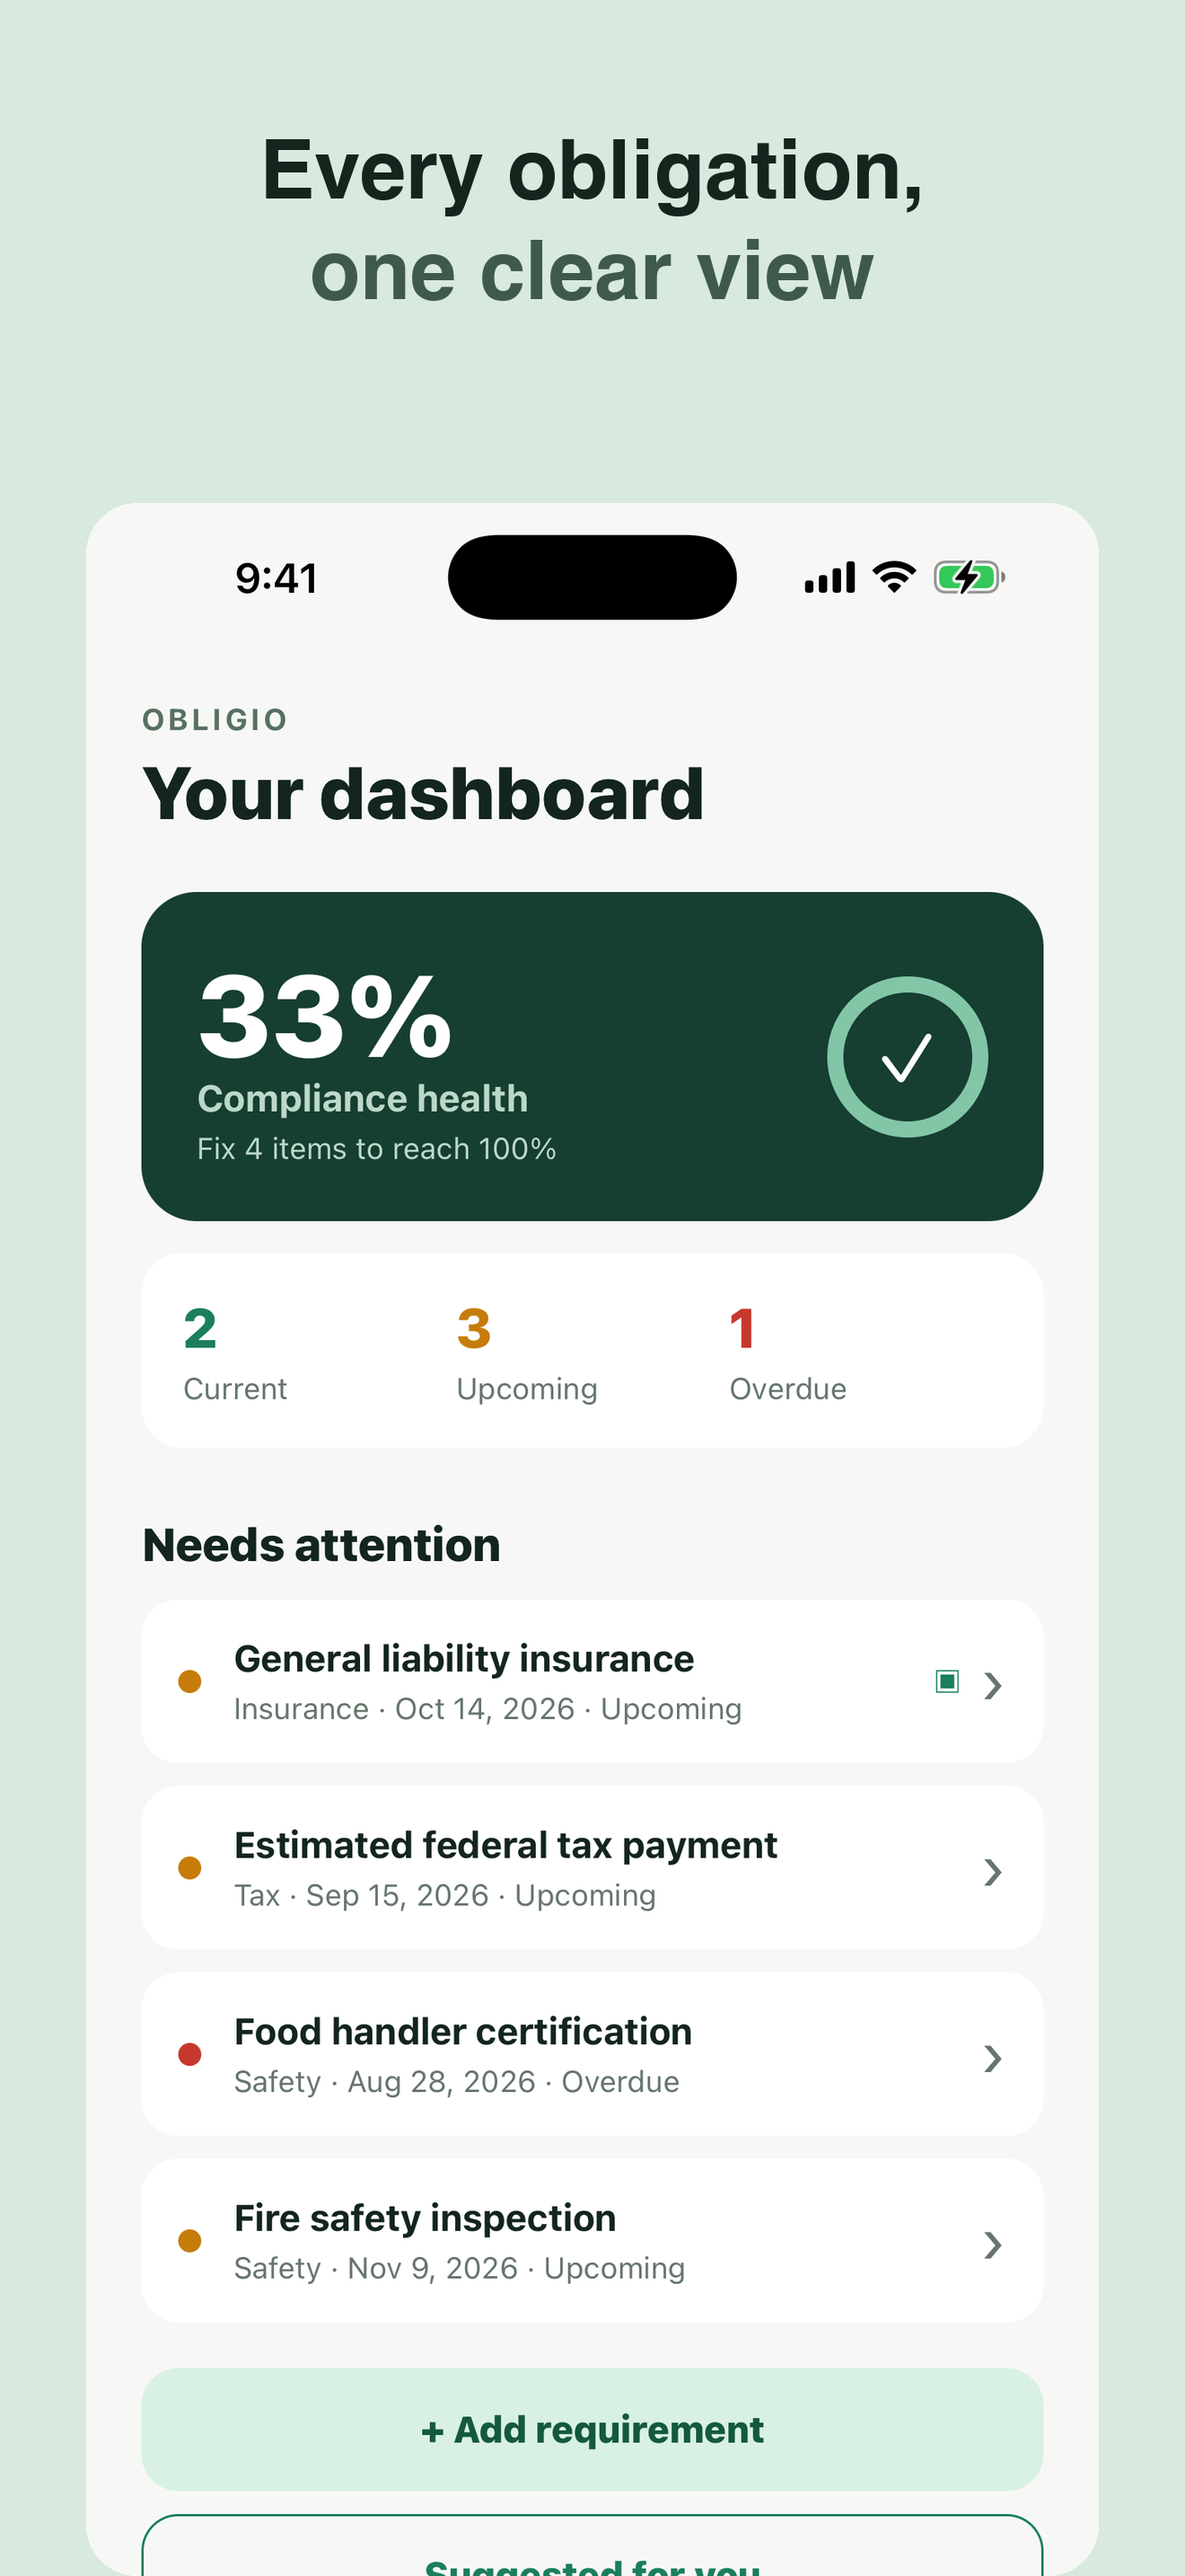
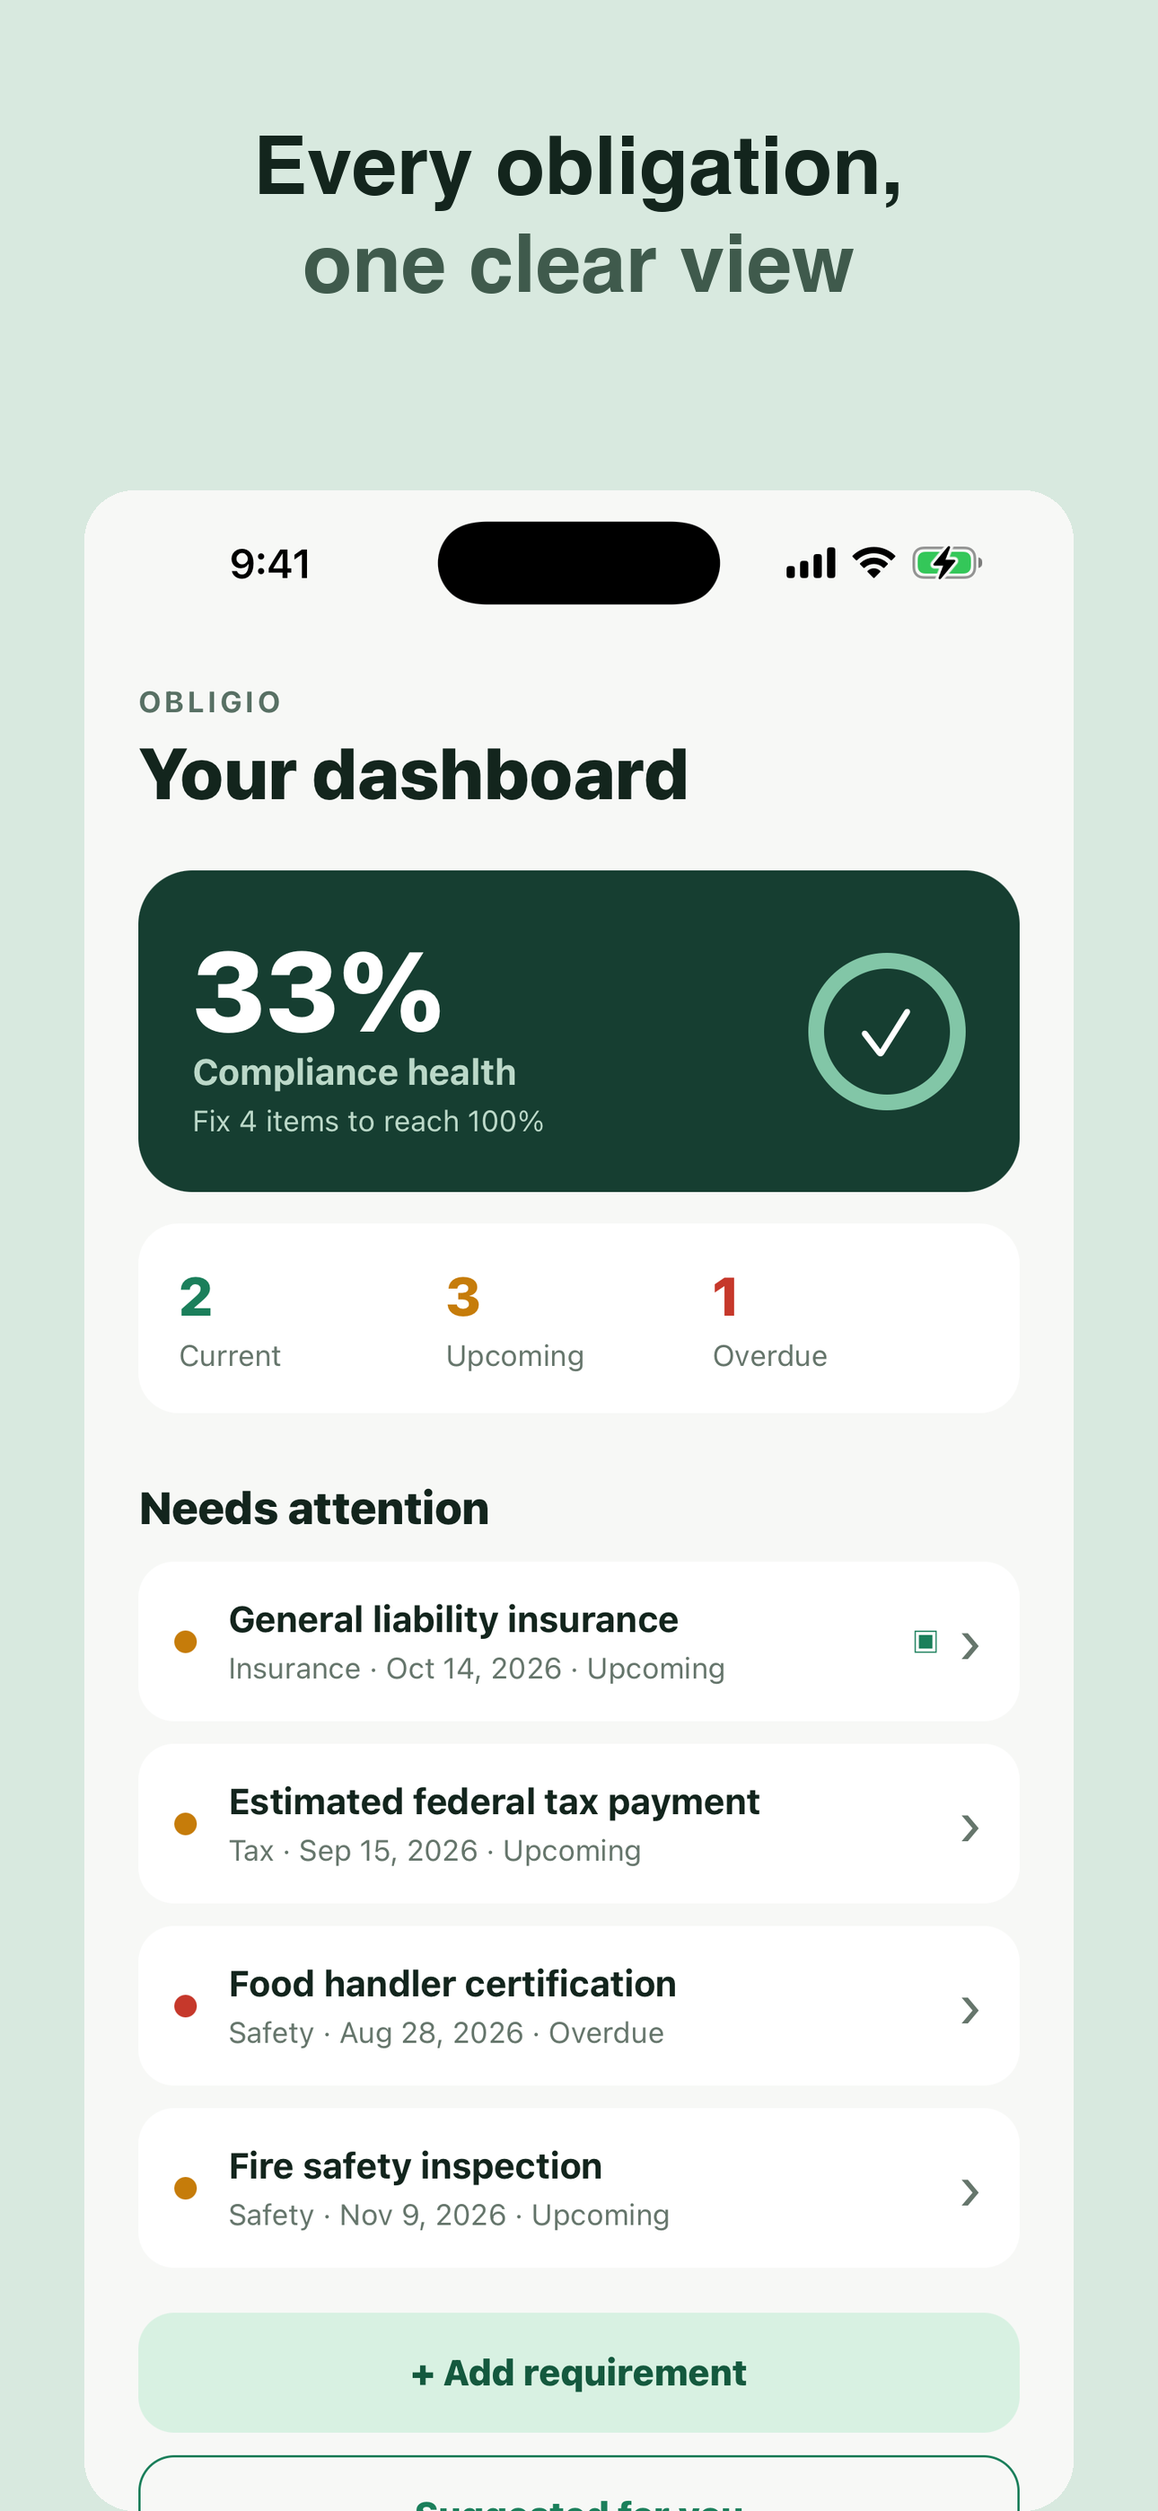
Give App Store screenshots their own lane, at a size deliver accepts
deliver rejects 1320x2868 outright: its newest iPhone bucket is 6.7"
(1290x2796), which Apple accepts for the 6.9" slot and scales up. The
compositor now draws to that canvas, with the layout derived from it rather
than hard-coded, so changing the canvas again does not break the design.

Screenshots also move out of the `metadata` lane. Uploading listing text for
an app whose first version has never been submitted ends in spaceship
raising "No data" -- after the text lands, but before deliver reaches the
screenshots, so bundling them meant the screenshots never uploaded at all.

Verified against both stores rather than against the exit codes: App Store
has the five screenshots, Play has five phone screenshots, the feature
graphic and the icon. The upload's own retry had left a second copy of every
App Store screenshot, which is now removed.

diff --git a/scripts/build-store-screenshots.py b/scripts/build-store-screenshots.py
@@ -19,8 +19,16 @@ import sys
 
 from PIL import Image, ImageDraw, ImageFont
 
-# 6.9" App Store requirement; also accepted by Play.
-CANVAS = (1320, 2868)
+# 6.7" (1290x2796). Apple accepts this for the 6.9" slot and scales it up,
+# and it is the largest iPhone size fastlane's deliver knows about -- deliver
+# rejects a 1320x2868 file outright as an invalid screen size. Play takes it
+# as a phone screenshot unchanged.
+CANVAS = (1290, 2796)
+
+# The layout below was drawn against this canvas; everything derives from it
+# so the composition holds if CANVAS changes again.
+DESIGN = (1320, 2868)
+SCALE = CANVAS[1] / DESIGN[1]
 
 FONT_BOLD = "/System/Library/Fonts/Helvetica.ttc"
 
@@ -38,12 +46,12 @@ CAPTIONS = {
     "paywall": ("Three free to start,", "unlimited with Plus"),
 }
 
-CAPTION_TOP = 150
-CAPTION_SIZE = 92
-CAPTION_GAP = 112
-DEVICE_INSET = 96      # side margin for the device
-DEVICE_TOP = 560       # where the device starts
-CORNER = 56
+CAPTION_TOP = round(150 * SCALE)
+CAPTION_SIZE = round(92 * SCALE)
+CAPTION_GAP = round(112 * SCALE)
+DEVICE_INSET = round(96 * SCALE)   # side margin for the device
+DEVICE_TOP = round(560 * SCALE)    # where the device starts
+CORNER = round(56 * SCALE)
 
 
 def rounded(image: Image.Image, radius: int) -> Image.Image:

diff --git a/scripts/capture-screenshots.py b/scripts/capture-screenshots.py
@@ -6,6 +6,13 @@
 Requires src/screenshots/config.ts to have SCREENSHOT_MODE = true and
 AUTO_ADVANCE_MS set, because simctl cannot tap.
 
+If Metro is not on 8081 -- another project's dev server may already hold it --
+point the installed app at the right one before running this, or it will
+happily load the other project's bundle:
+
+    xcrun simctl spawn <udid> defaults write com.obligio.app \
+      RCT_jsLocation "localhost:8082"
+
 Bundle-load time varies by seconds, so this does not sleep a fixed amount and
 hope it lands on frame one. It samples the screen continuously for two full
 cycles, groups consecutive identical samples into runs -- one run per frame,

diff --git a/fastlane/README.md b/fastlane/README.md
@@ -39,6 +39,14 @@ Upload an already-built IPA to TestFlight, without rebuilding
 
 Push App Store listing metadata from fastlane/metadata without uploading a build
 
+### ios screenshots
+
+```sh
+[bundle exec] fastlane ios screenshots
+```
+
+Push App Store screenshots from fastlane/screenshots without uploading a build
+
 ----
 
 
